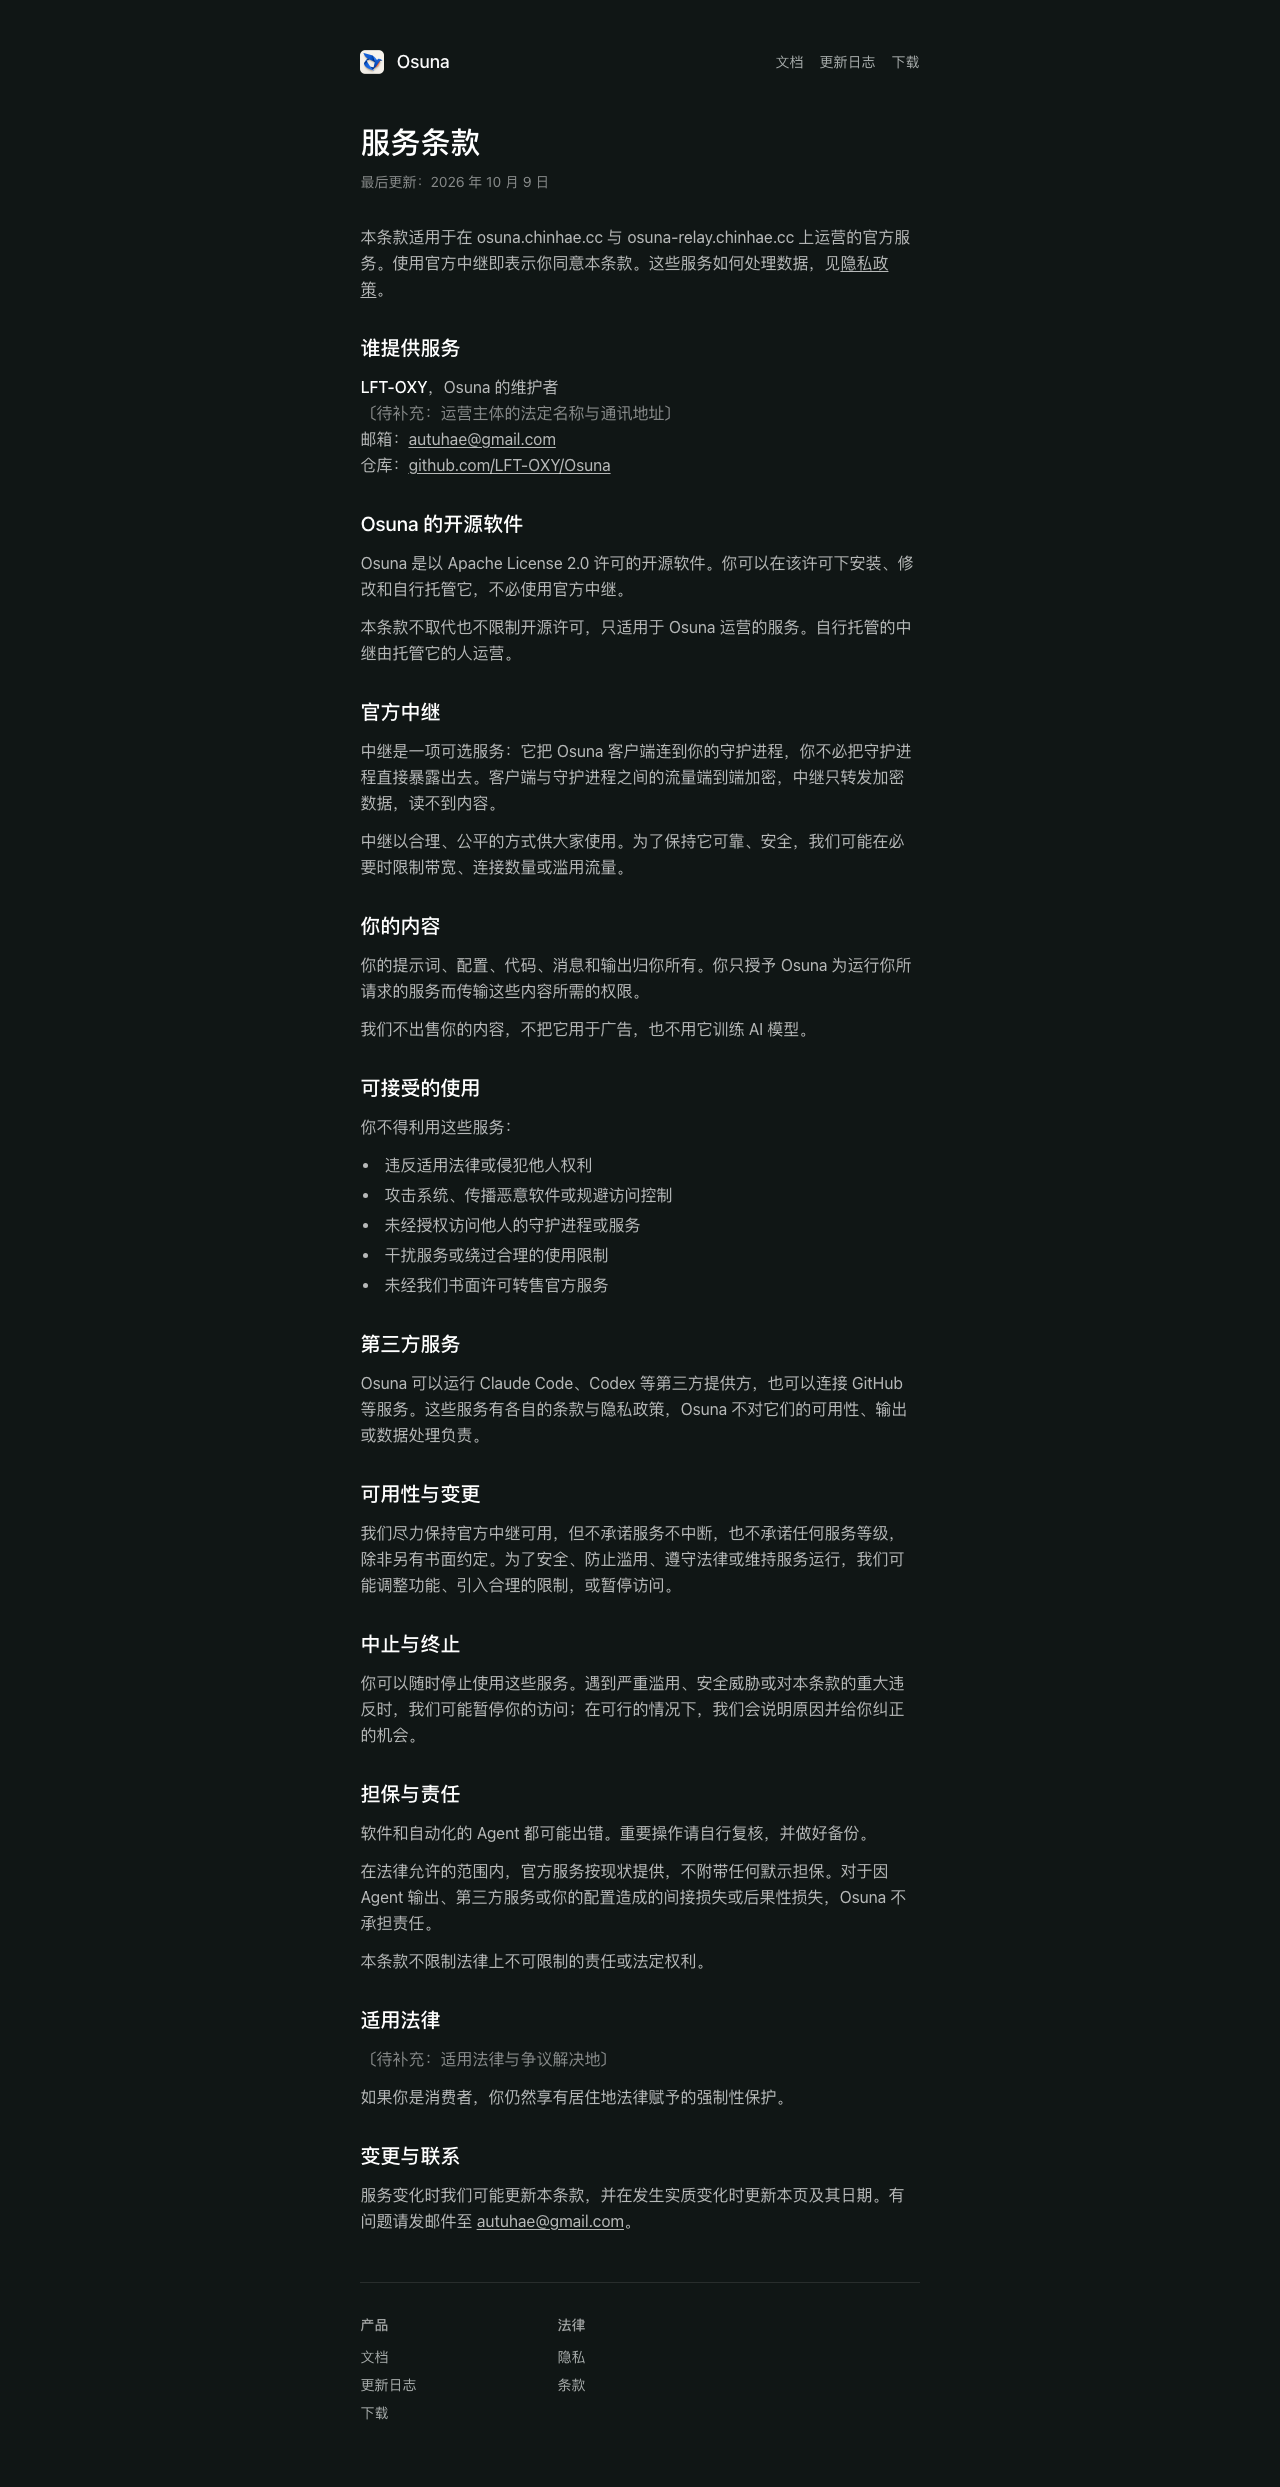
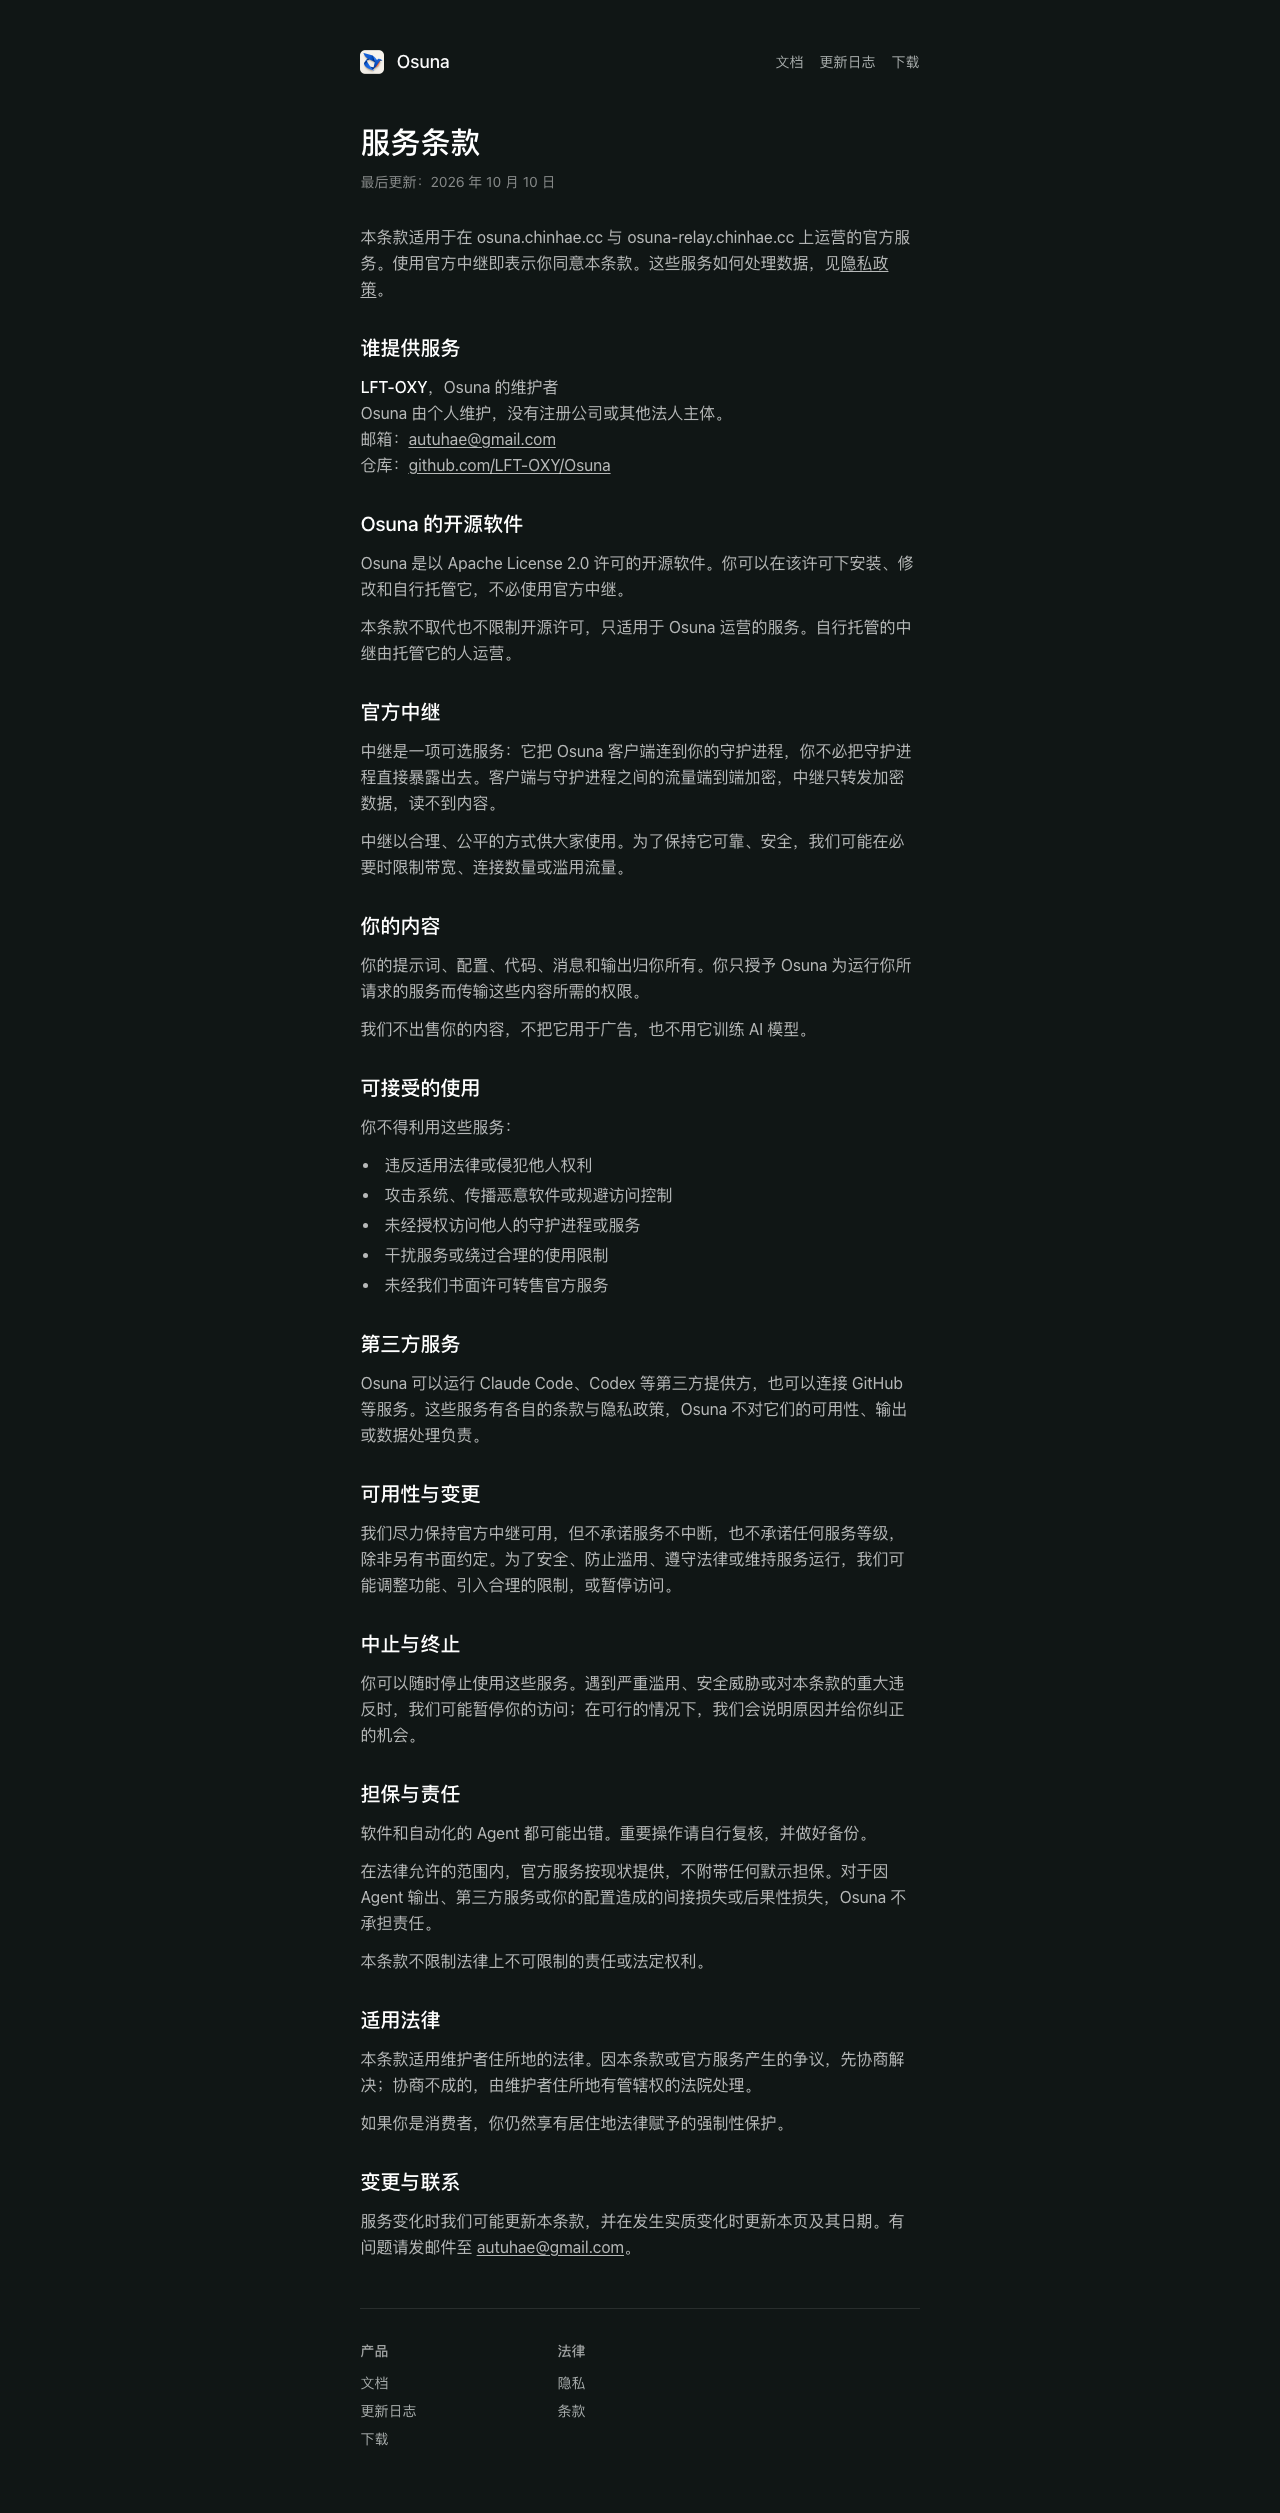
docs(website): 隐私页与条款页补齐法律信息，去掉占位组件 [14]
按个人维护者填写：无法人主体、处理依据、运行日志最长保留 7 天、投诉渠道、适用法律。
占位清空后删除 LegalPlaceholder，并清掉发布说明草稿里对应的待定项。

diff --git a/packages/website/src/routes/privacy.tsx b/packages/website/src/routes/privacy.tsx
@@ -1,10 +1,5 @@
 import { createFileRoute } from "@tanstack/react-router";
-import {
-  LegalContactLink,
-  LegalPage,
-  LegalPlaceholder,
-  OsunaLegalIdentity,
-} from "~/components/legal-page";
+import { LegalContactLink, LegalPage, OsunaLegalIdentity } from "~/components/legal-page";
 import { pageMeta } from "~/meta";
 
 export const Route = createFileRoute("/privacy")({
@@ -15,7 +10,7 @@ export const Route = createFileRoute("/privacy")({
 
 function Privacy() {
   return (
-    <LegalPage title="隐私政策" lastUpdated="2026 年 10 月 9 日">
+    <LegalPage title="隐私政策" lastUpdated="2026 年 10 月 10 日">
       <p>
         Osuna 以本地优先的方式工作。安装或使用这款开源软件，不会把你的代码、提示词、文件、终端输出或
         Agent 对话发给我们。本政策分别说明本地运行的 Osuna、可选的官方中继，以及 osuna.chinhae.cc
@@ -68,7 +63,8 @@ function Privacy() {
           <li>防止滥用并保护服务</li>
         </ul>
         <p>
-          <LegalPlaceholder>处理数据的法律依据</LegalPlaceholder>
+          在要求说明处理依据的地区（例如适用 GDPR
+          的地区），提供中继连接的依据是履行你所请求的服务，防止滥用与保护服务的依据是我们维护服务安全的正当利益。
         </p>
       </section>
 
@@ -85,7 +81,8 @@ function Privacy() {
         <h2>保留与删除</h2>
         <p>Osuna 没有账户，我们不保存用户资料。中继不存储消息内容。</p>
         <p>
-          <LegalPlaceholder>基础设施运行日志的保留期限</LegalPlaceholder>
+          中继与官网的运行日志保存在 Cloudflare，按其平台期限自动过期，最长
+          7&nbsp;天。我们不另行导出或长期保存这些日志。
         </p>
       </section>
 
@@ -101,7 +98,7 @@ function Privacy() {
           <LegalContactLink />。
         </p>
         <p>
-          <LegalPlaceholder>数据保护监管机构与投诉渠道</LegalPlaceholder>
+          如果你认为我们处理你个人数据的方式不符合适用法律，请先联系我们；你也可以向你居住地的数据保护监管机构投诉。
         </p>
       </section>
 

diff --git a/packages/website/src/routes/terms.tsx b/packages/website/src/routes/terms.tsx
@@ -1,10 +1,5 @@
 import { createFileRoute } from "@tanstack/react-router";
-import {
-  LegalContactLink,
-  LegalPage,
-  LegalPlaceholder,
-  OsunaLegalIdentity,
-} from "~/components/legal-page";
+import { LegalContactLink, LegalPage, OsunaLegalIdentity } from "~/components/legal-page";
 import { pageMeta } from "~/meta";
 
 export const Route = createFileRoute("/terms")({
@@ -14,7 +9,7 @@ export const Route = createFileRoute("/terms")({
 
 function Terms() {
   return (
-    <LegalPage title="服务条款" lastUpdated="2026 年 10 月 9 日">
+    <LegalPage title="服务条款" lastUpdated="2026 年 10 月 10 日">
       <p>
         本条款适用于在 osuna.chinhae.cc 与 osuna-relay.chinhae.cc
         上运营的官方服务。使用官方中继即表示你同意本条款。这些服务如何处理数据，见
@@ -104,7 +99,7 @@ function Terms() {
       <section>
         <h2>适用法律</h2>
         <p>
-          <LegalPlaceholder>适用法律与争议解决地</LegalPlaceholder>
+          本条款适用维护者住所地的法律。因本条款或官方服务产生的争议，先协商解决；协商不成的，由维护者住所地有管辖权的法院处理。
         </p>
         <p>如果你是消费者，你仍然享有居住地法律赋予的强制性保护。</p>
       </section>

diff --git a/packages/website/src/components/legal-page.tsx b/packages/website/src/components/legal-page.tsx
@@ -23,11 +23,6 @@ export function LegalPage({ title, lastUpdated, children }: LegalPageProps) {
   );
 }
 
-// 仓库里没有的法律信息不自拟，统一用这个占位；上线前搜 LegalPlaceholder 逐个补上。
-export function LegalPlaceholder({ children }: { children: ReactNode }) {
-  return <span className="text-white/50">〔待补充：{children}〕</span>;
-}
-
 export function LegalContactLink() {
   return <a href={`mailto:${LEGAL_CONTACT_EMAIL}`}>{LEGAL_CONTACT_EMAIL}</a>;
 }
@@ -37,7 +32,7 @@ export function OsunaLegalIdentity() {
     <address className="not-italic">
       <strong className="font-medium text-white">LFT-OXY</strong>，Osuna 的维护者
       <br />
-      <LegalPlaceholder>运营主体的法定名称与通讯地址</LegalPlaceholder>
+      Osuna 由个人维护，没有注册公司或其他法人主体。
       <br />
       邮箱：
       <LegalContactLink />

diff --git a/.atw/tasks/10-09-osuna-standalone/issues/12-website-home-and-download.md b/.atw/tasks/10-09-osuna-standalone/issues/12-website-home-and-download.md
@@ -9,7 +9,7 @@
 - [x] 首页：Osuna 名称与 logo、中文标语与段落、英雄区桌面 / 手机截图换成 Osuna 自己的（替换 `hero-mockup`、`homepage-hero`、`phone-1~3`、`iphone-mockup-left`、`mobile-mockup` 等上游界面图）、删上游专属段落；页眉页脚只留 文档 / 更新日志 / 下载 / 隐私 / 条款；OG 图与 favicon 为 Osuna
 - [x] 下载页：中文；列桌面端各平台包（稳定 / Beta 切换保留）与安卓 APK；Release 源、下载链接、Release API、文档页脚"在 GitHub 上编辑"全部指向 `LFT-OXY/Osuna`
 - [x] 官网托管 `/schemas/osuna.config.v1.json`，内容与 daemon 配置 schema 一致；新增一条测试断言该文件存在且可解析为 JSON Schema
-- [ ] 隐私与条款页改为 Osuna 主体，无 Hub 段
+- [x] 隐私与条款页改为 Osuna 主体，无 Hub 段
 - [x] UI: 首页 / 默认 / 桌面 1280 — 截图无 Paseo 字样、无上游截图、无推荐语、无 Hub 入口
 - [x] UI: 首页 / 默认 / 手机 390 — 同上，且主 CTA 可见不被裁切
 - [x] UI: 下载页 / 稳定与 Beta 两种状态 / 1280 与 390 — 平台包与 APK 列表完整，下载按钮 390 宽不裁切，链接 host 为 github.com/LFT-OXY/Osuna
